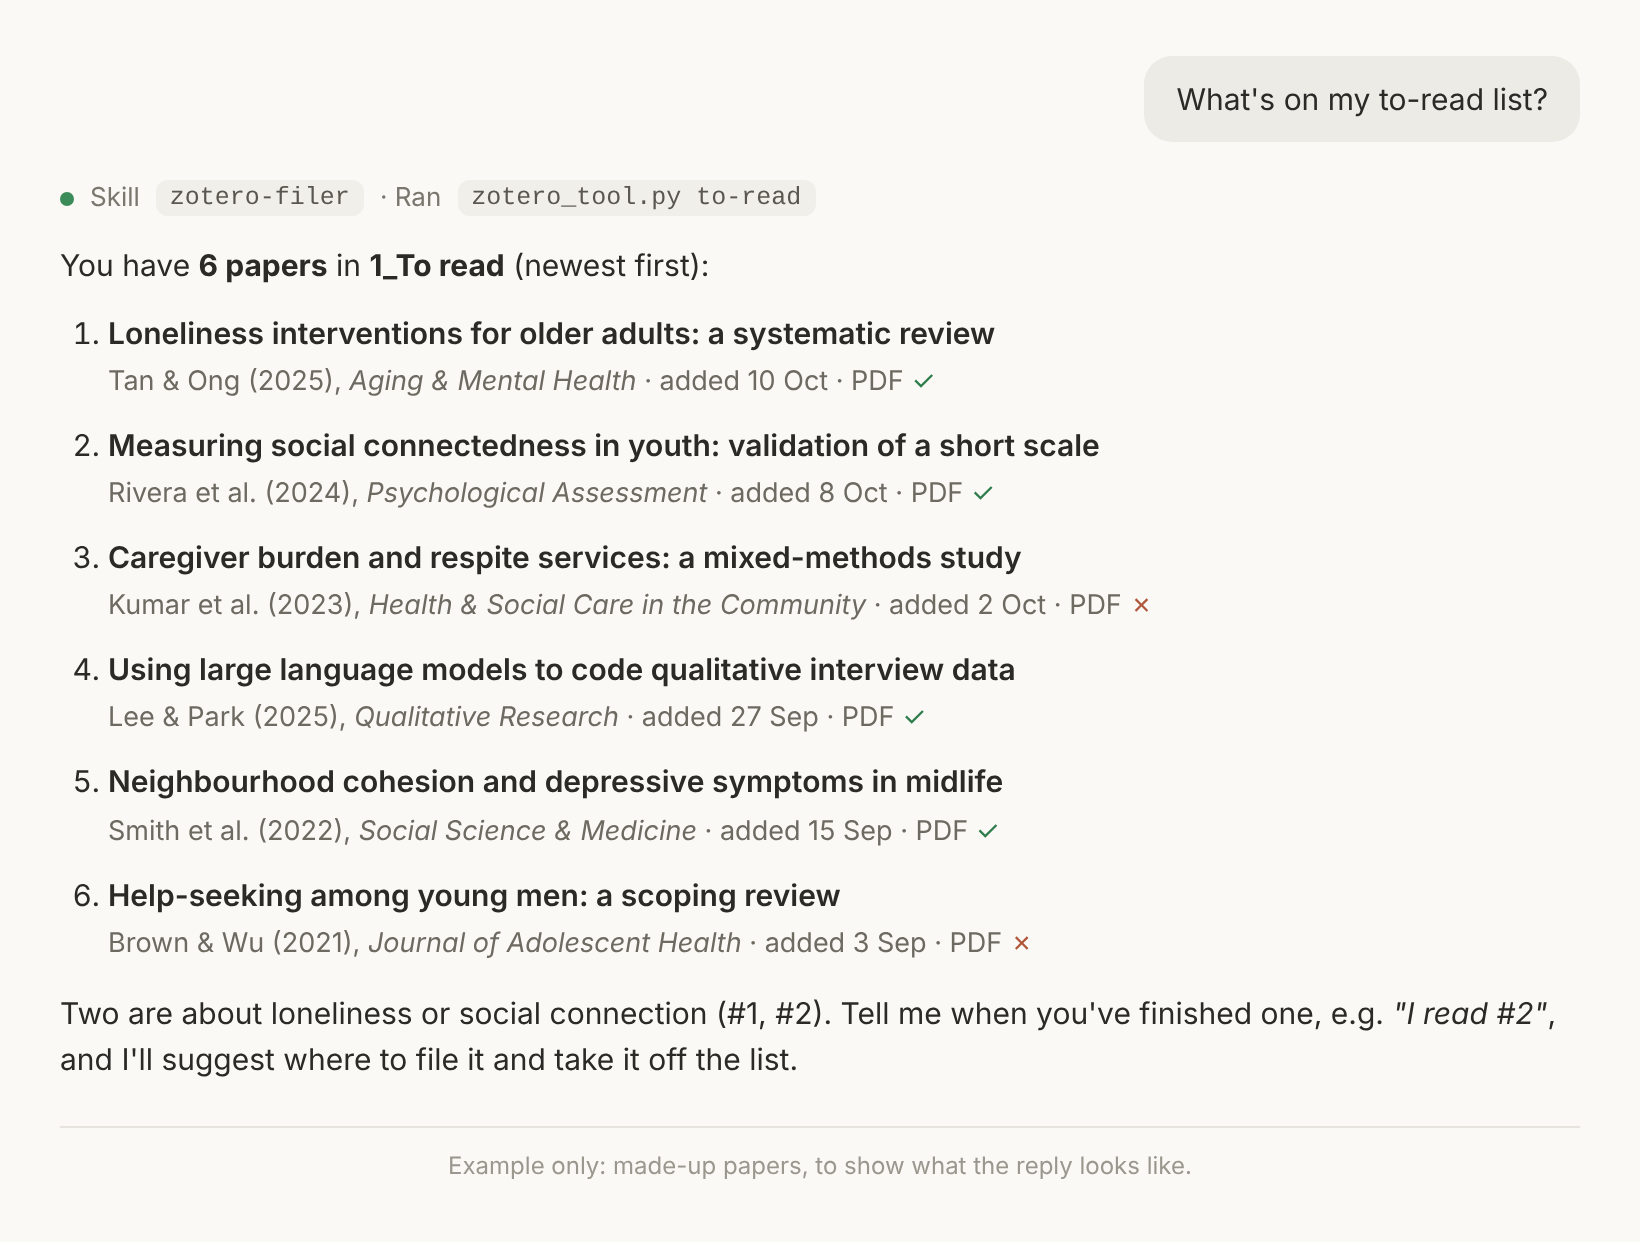
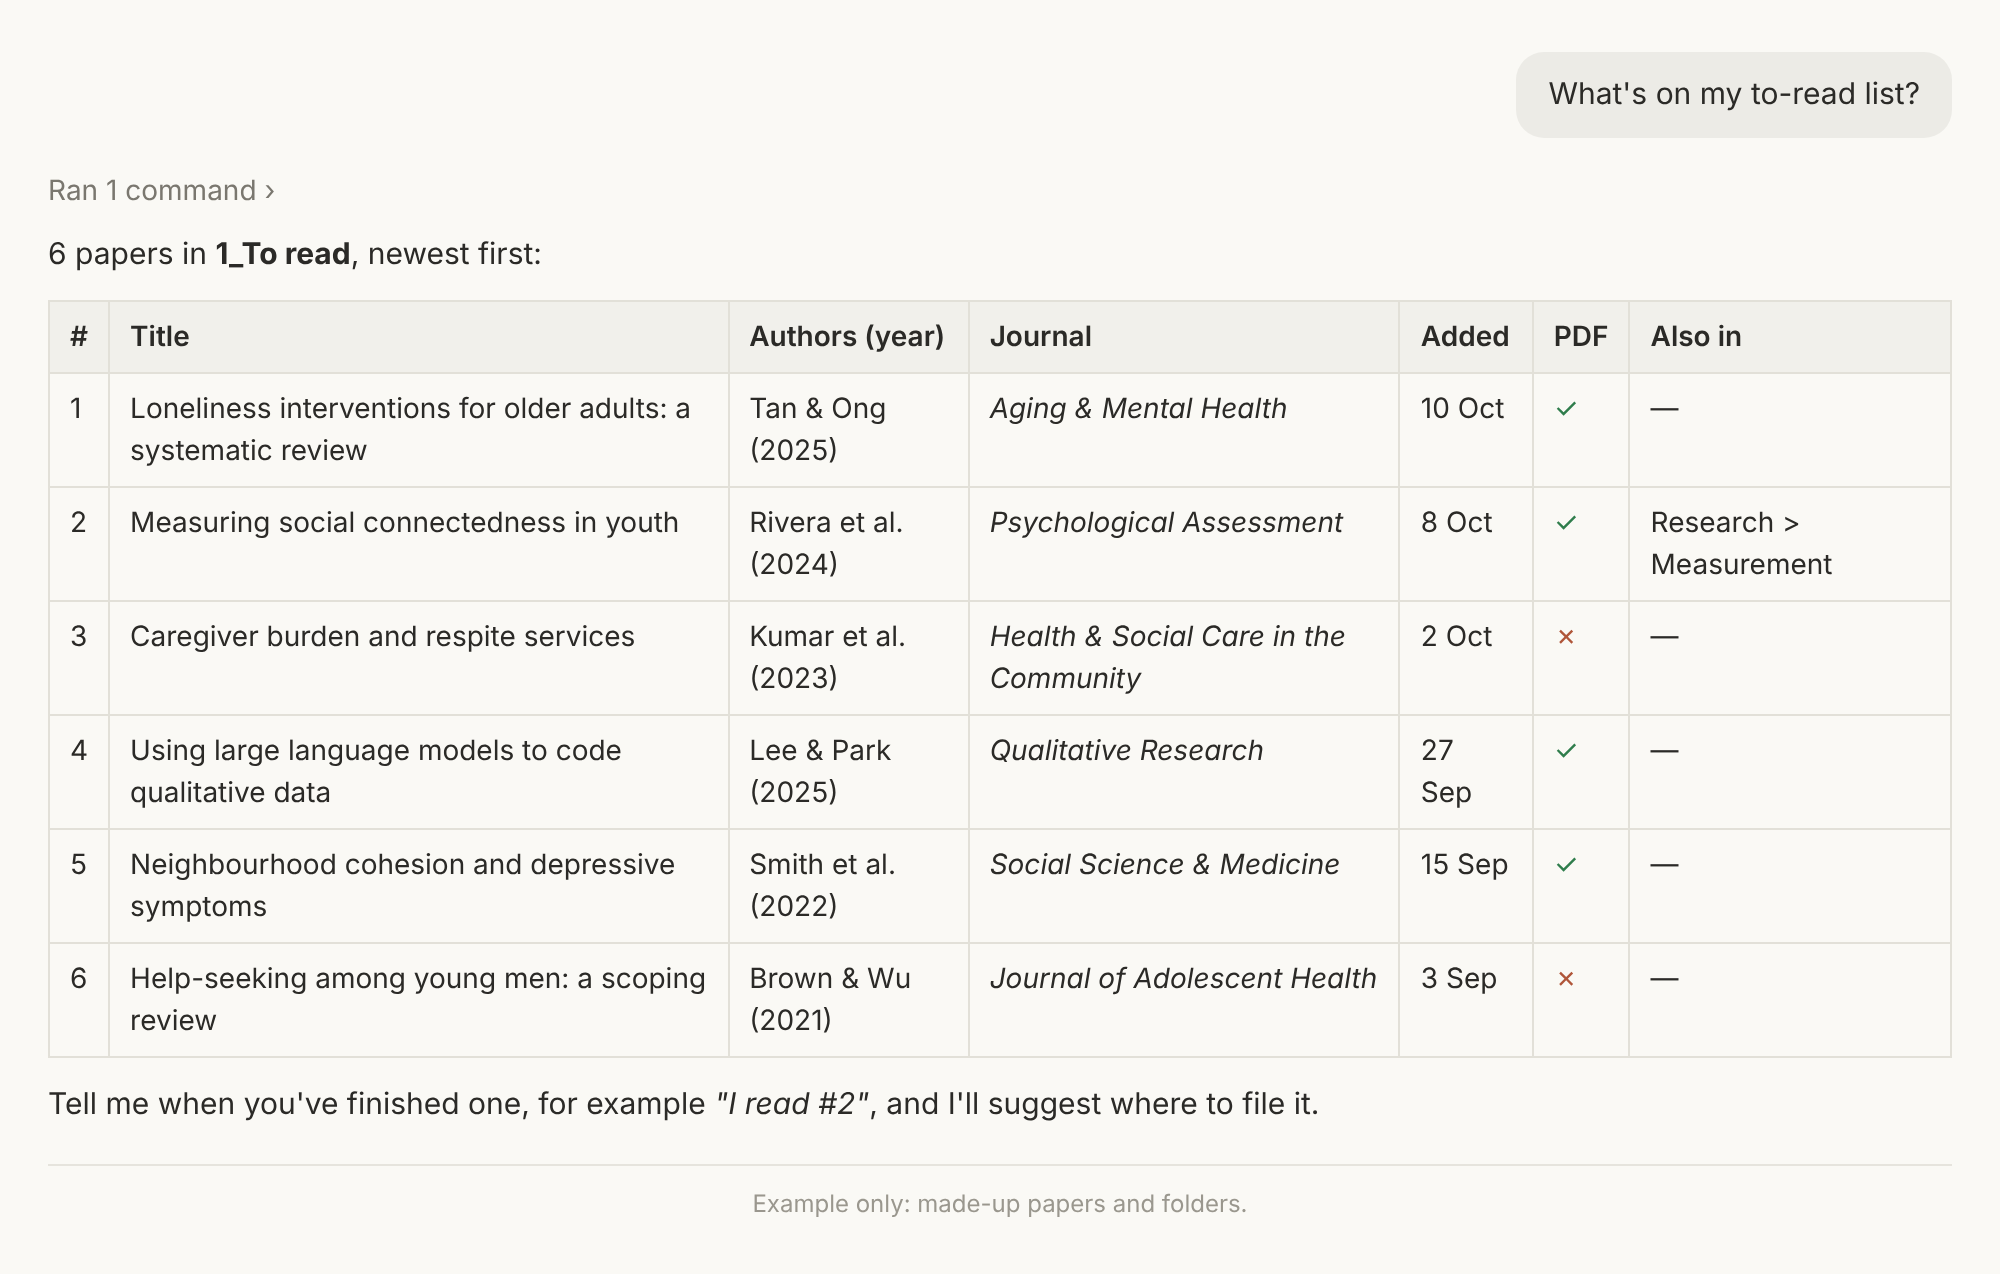
Show results as tables instead of paragraphs
SKILL.md: new 'How to show results' section with tables for the to-read
list, folder suggestions (paper #, folder, fit, why), results after
filing, title search results and duplicates. Each step now points to its
table. README example picture updated to the table layout.

diff --git a/.claude/skills/zotero-filer/SKILL.md b/.claude/skills/zotero-filer/SKILL.md
@@ -40,11 +40,60 @@ their API key into the chat.
 Folders are always passed by **key**, never by name. Get keys from `collections`.
 Use the user's words for folders in chat ("PhD > Ch2 > Measurement"), never keys.
 
+## How to show results
+
+Keep replies easy to scan. Do not write paragraphs of reasons.
+
+- When you show 2 or more items with details, use a Markdown table.
+- At most one short line before a table and one short line after it.
+- Reasons are one short phrase (about 15 words or fewer) and concrete: name the
+  similar papers already in that folder, or the topic that matches.
+- Always show full folder paths, for example `Research > Methods > Surveys`.
+
+**Table 1: to-read list**
+
+| # | Title | Authors (year) | Journal | Added | PDF | Also in |
+|---|---|---|---|---|---|---|
+| 1 | Loneliness interventions for older adults | Tan & Ong (2025) | Aging & Mental Health | 10 Oct | ✓ | — |
+
+"Also in" lists any other folders the paper is in, or "—".
+
+**Table 2: folder suggestions**. One row per suggestion. Show this table, then ask.
+
+| Paper # | Paper | Suggested folder | Fit | Why |
+|---|---|---|---|---|
+| 2 | Co-designing AI tools with nurses (Lim et al.) | Technology > Human-AI collaboration | Best | Sits with your other papers on involving workers in AI design |
+| 2 | | Technology > Values | Good | Worker-centred critique, like your papers on fairness at work |
+| 2 | | Technology > Data stewardship | Possible | Some overlap with your participatory data papers |
+| 2 | | *New:* Technology > Participatory AI | New folder | No folder for co-design of AI yet |
+
+- Fit is one of: **Best**, **Good**, **Possible**, **New folder**.
+- For a new paper with no list number, write "new" in the Paper # column.
+- For several papers at once, use one table with all rows, grouped by Paper #.
+- After the table, add one line saying where the paper is now (for example
+  "Now only in To read"), then ask with AskUserQuestion.
+
+**Table 3: after filing**
+
+| Paper # | Paper | Now in | Removed from To read | Tagged |
+|---|---|---|---|---|
+
+**Table 4: title search results**, when asking which paper the user means
+
+| Option | Title | Authors (year) | Journal | Match |
+|---|---|---|---|---|
+
+**Table 5: already in Zotero**
+
+| Paper | Already in folders | Added |
+|---|---|---|
+
 ## Job 1: add a new paper
 
 1. **Find the details.** Run `lookup` on what the user gave.
    - `input_type: "title"` gives up to 3 search results with a `match` score. If the
-     top one is not close to 1.0, or several look alike, ask the user which one.
+     top one is not close to 1.0, or several look alike, show them as Table 4 and ask
+     the user which one.
    - `input_type: "pdf"`: check `title_found_in_pdf`. If it is false, or there are no
      candidates, read `pdf_text_start`, find the real title, and run `lookup` again with
      that title. Keep the PDF path for step 5.
@@ -54,7 +103,7 @@ Use the user's words for folders in chat ("PhD > Ch2 > Measurement"), never keys
    - Save the chosen candidate (one object) to a temp JSON file for `add --meta`.
 
 2. **Check for duplicates.** Run `find-dup` with the DOI and title. If a duplicate
-   exists, tell the user where it already is. Offer to add that existing item to new
+   exists, show it as Table 5. Offer to add that existing item to new
    folders with `refile` instead of making a copy.
 
 3. **"Read later" shortcut.** If the user said "to read", "read later", "save for later",
@@ -64,7 +113,7 @@ Use the user's words for folders in chat ("PhD > Ch2 > Measurement"), never keys
    and keywords with each folder's `path` and `sample_titles`.
    - Pick the 1–3 best folders. Prefer the most specific (deepest) folder that fits.
      Suggest more than one only when the paper really belongs in several.
-   - Give each suggestion one short reason ("matches your other loneliness scales papers").
+   - Give each suggestion one short reason. Show all suggestions as Table 2 first.
    - Ask with **AskUserQuestion**, `multiSelect: true`, max 4 options:
      your suggestions (label = folder path, description = reason) plus **"To read"**.
      The user can type something else in "Other", such as another folder or a new folder name.
@@ -79,13 +128,12 @@ Use the user's words for folders in chat ("PhD > Ch2 > Measurement"), never keys
 6. **Add it.** Run `add --meta FILE --collections KEYS [--to-read] [--pdf PATH]`.
    If `pdf_error` is present, say that the paper was saved but the PDF was not.
 
-7. **Report back** in one or two lines: the title, the folders, whether the PDF is attached.
+7. **Report back** with Table 3, plus one line on whether the PDF is attached.
 
 ## Job 2: show the "To read" list
 
 When the user says "what's on my to-read list", "show my reading list", or similar:
-- Run `to-read`. Show a short numbered list using `n`:
-  `n. Title — Authors (year), Journal · added date · PDF ✓/✗`.
+- Run `to-read`. Show it as Table 1, using `n` for the # column.
 - If `total` is more than `shown`, say how many more there are.
 - If the user asks to filter ("only the ones about measurement"), use the titles,
   abstracts, folders and tags in the output. Do not invent anything.
@@ -94,17 +142,18 @@ When the user says "what's on my to-read list", "show my reading list", or simil
 
 When the user says "I finished #3", "I read the Smith 2024 paper", or similar:
 1. Run `to-read` and find the paper by its number or name. Confirm which one if unclear.
-2. Run `collections` and suggest folders as in Job 1, step 4. Mention any folders
-   it is already in (`folders`). Do not offer "To read" as a choice here.
+2. Run `collections` and suggest folders as in Job 1, step 4, shown as Table 2.
+   Mention any folders it is already in (`folders`) in the line after the table.
+   Do not offer "To read" as a choice here.
 3. Ask with AskUserQuestion. In the same call, add a second question:
    "Remove it from To read?" with the options "Yes (Recommended)" and "No, keep it there".
 4. Run `refile --item KEY --add KEYS --tag read`, adding `--remove-to-read` if the user
    said yes. Removing only takes the paper out of the folder; it stays in the library.
-5. Report the folders before and after.
+5. Report back with Table 3.
 
 **Several at once** ("sort the ones I've read"): show the list, ask which ones they
 have read (multi-select, or let them type numbers), then do steps 2–4 for each paper,
-one at a time.
+one at a time. You may show Table 2 for all of them at once, then ask about each.
 
 ## Rules
 
